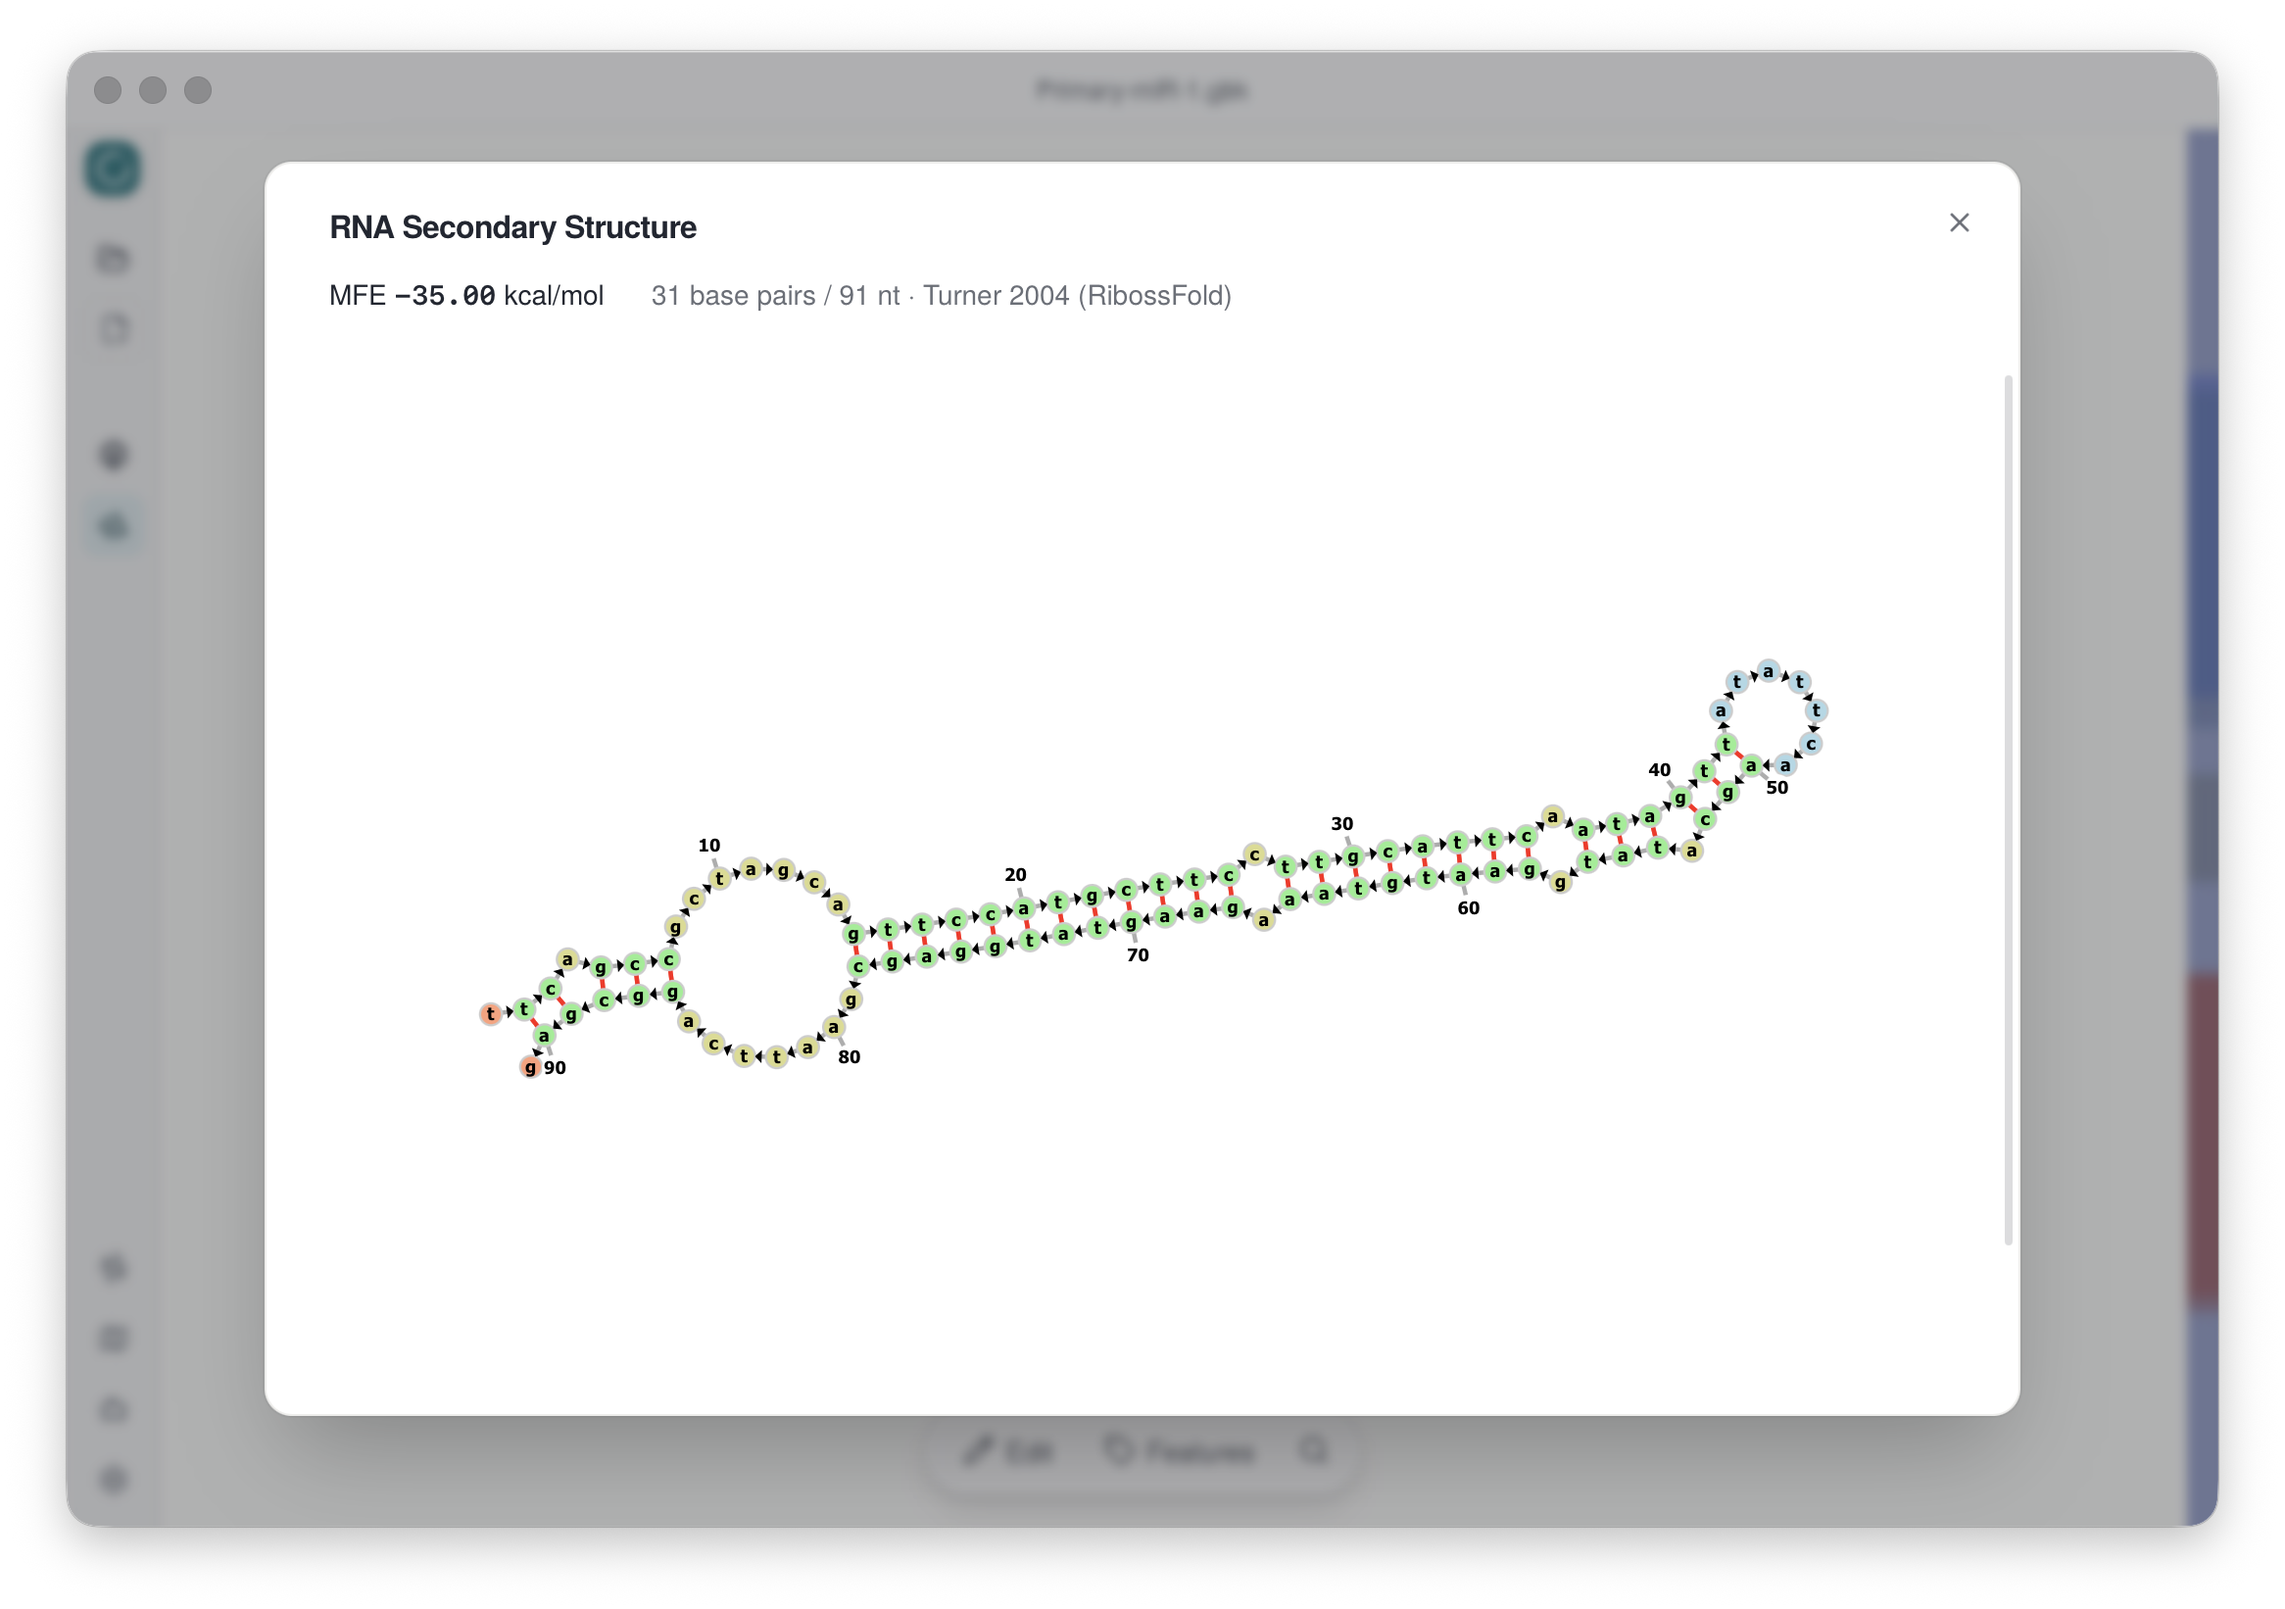
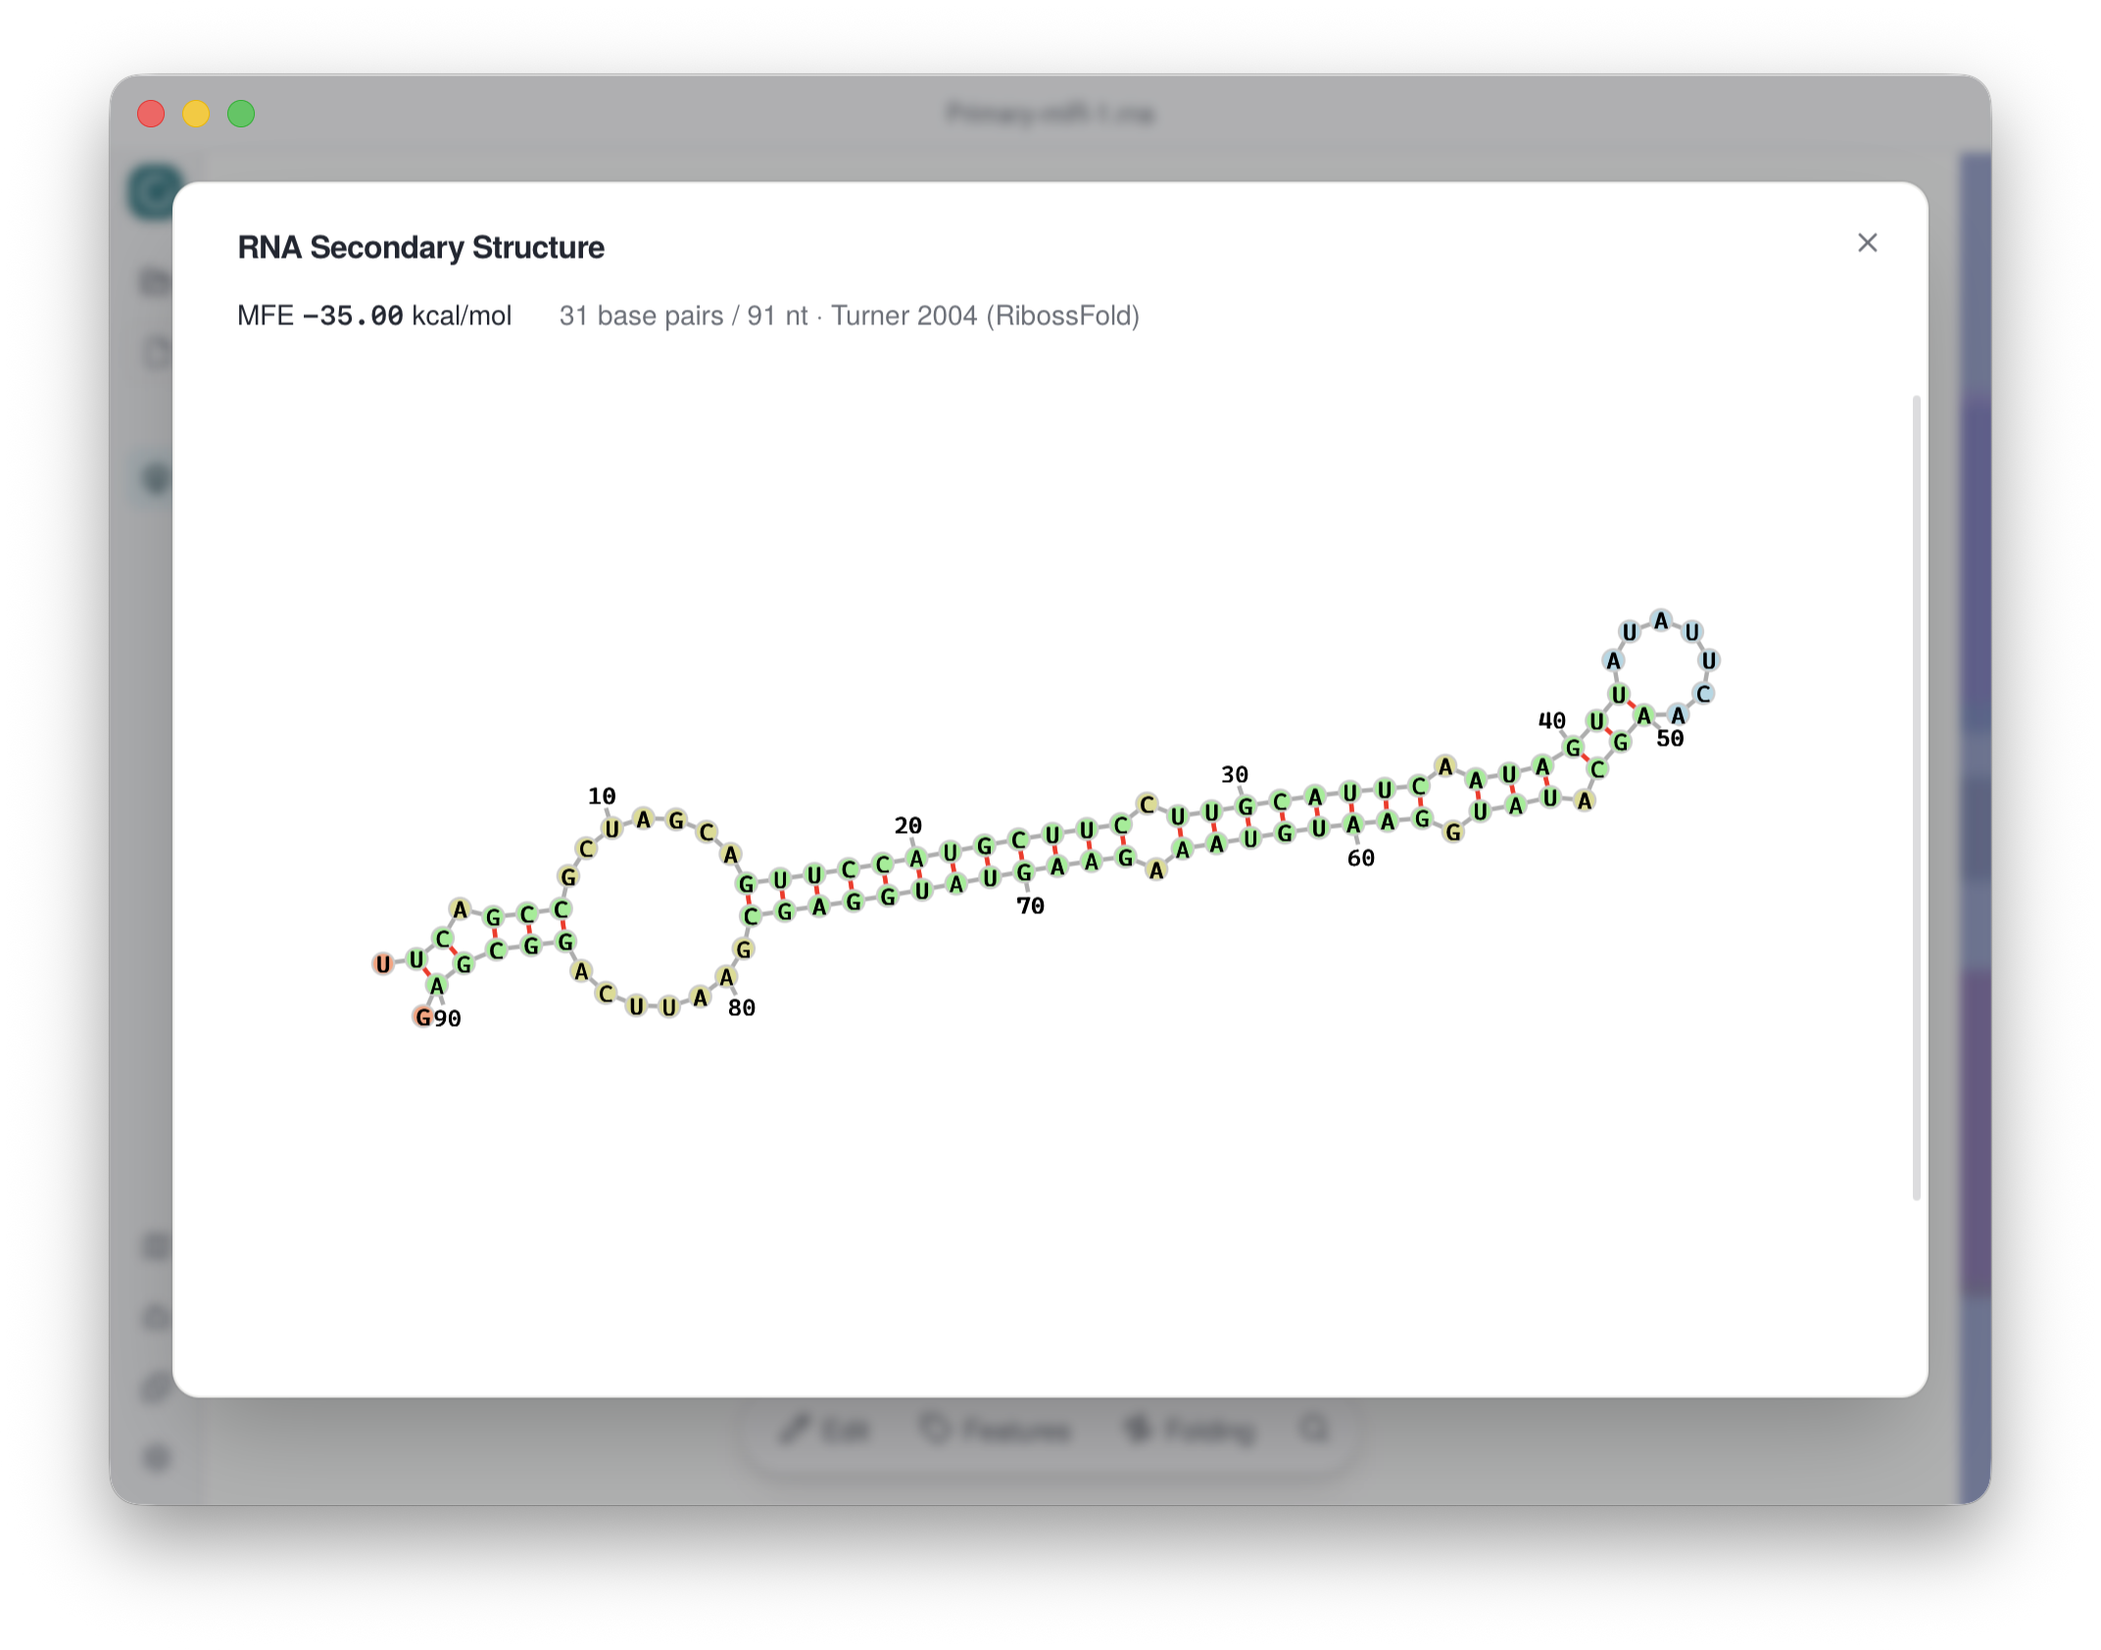
feat: use Cascadia Code in RNA fold graph, larger labels, hide direction arrows

diff --git a/src/plugins/rnaFold/FornaView.jsx b/src/plugins/rnaFold/FornaView.jsx
@@ -13,8 +13,9 @@ const SCOPED_CSS = `
 .forna-view line.basepair { stroke: red; }
 .forna-view line.fake { stroke: green; }
 .forna-view line.pseudoknot { stroke: red; }
+.forna-view path.node { display: none; }
 .forna-view text { pointer-events: none; }
-.forna-view text.node-label { font-weight: bold; font-family: Tahoma, Geneva, sans-serif; color: rgb(100,100,100); }
+.forna-view text.node-label { font-size: 10.5px; font-weight: bold; font-family: 'Cascadia Code', ui-monospace, SFMono-Regular, Menlo, Monaco, Consolas, monospace; color: rgb(100,100,100); transform: translateY(1.3px); }
 .forna-view .transparent { fill: transparent; stroke-width: 0; stroke-opacity: 0; opacity: 0; visibility: hidden; }
 `;
 
